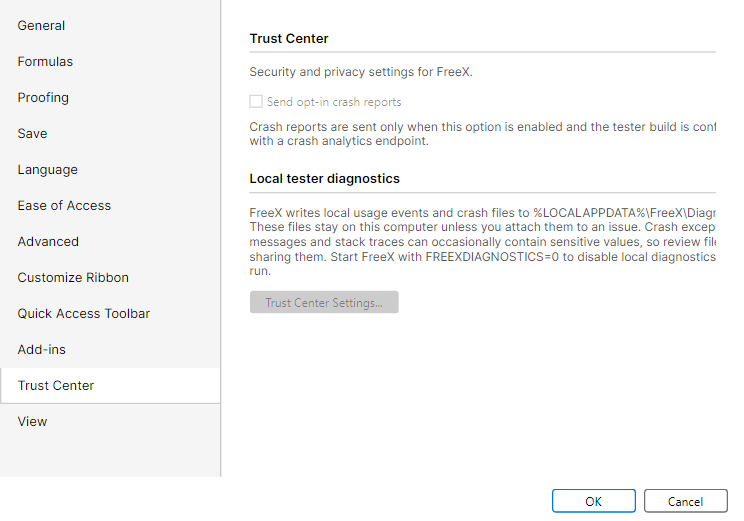
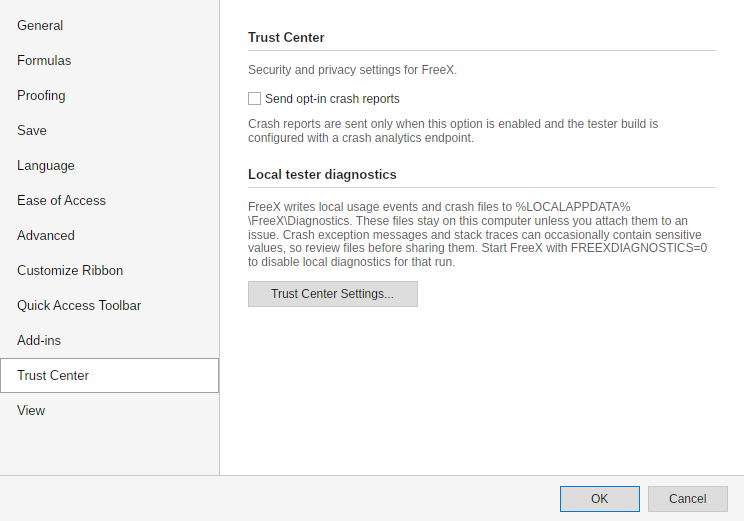
FreeX Options Trust Center Avalonia parity

diff --git a/src/FreeX.App.Avalonia/MainWindow.Options.cs b/src/FreeX.App.Avalonia/MainWindow.Options.cs
@@ -899,14 +899,33 @@ public sealed partial class MainWindow
             OptionsDescription(OptionsText("Options_ActiveApplicationAddIns")),
             OptionsButton(OptionsText("Options_Go"), width: 72, isEnabled: false));
 
+        var crashAnalyticsBox = new CheckBox
+        {
+            Content = OptionsText("Options_SendOptInCrashReports"),
+            IsChecked = current.CrashAnalyticsEnabled,
+        };
+        ApplyOptionsCheckBoxChrome(crashAnalyticsBox);
+        AutomationProperties.SetAutomationId(crashAnalyticsBox, "OptionsCrashAnalyticsCheckBox");
+        AutomationProperties.SetHelpText(
+            crashAnalyticsBox,
+            OptionsText("Options_CrashReportsIncludeAppVersionRuntimeOperatingSystemSessi"));
+
+        var trustCenterSettingsButton = OptionsButton(OptionsText("Options_TrustCenterSettings"), width: 170);
+        trustCenterSettingsButton.Click += async (_, _) =>
+            await AvaloniaUserMessageDialog.ShowWarningAsync(
+                dialog,
+                UiText.Get("DeferredCommand_TrustCenter_Body"),
+                UiText.Get("DeferredCommand_TrustCenter_Title"));
+
         var trustCenterPanel = OptionsCategoryPanel(
             OptionsSectionHeader(OptionsText("Options_TrustCenter2")),
             OptionsDescription(OptionsText("Options_SecurityAndPrivacySettingsForFreeX")),
-            OptionsCheckBox(OptionsText("Options_SendOptInCrashReports"), isEnabled: false),
+            crashAnalyticsBox,
             OptionsDescription(OptionsText("Options_CrashReportsAreSentOnlyWhenThisOptionIsEnabledAndTheTest")),
             OptionsSectionHeader(OptionsText("Options_LocalTesterDiagnostics")),
             OptionsDescription(OptionsText("Options_FreeXWritesLocalUsageEventsAndCrashFilesToLOCALAPPDATAFr")),
-            OptionsButton(OptionsText("Options_TrustCenterSettings"), width: 150, isEnabled: false));
+            trustCenterSettingsButton);
+        trustCenterPanel.Width = OptionsDialogPlanner.GeneralContentWidth;
 
         // ── Category list + content host ──────────────────────────────────────────
         var panels = new[]
@@ -1114,10 +1133,11 @@ public sealed partial class MainWindow
                          2 => AppOptionsObjectDisplay.Nothing,
                          _ => AppOptionsObjectDisplay.All,
                      },
-                     collapseRibbonAutomatically: collapseRibbonBox.IsChecked == true,
-                     appLanguage: languageOptions.Count > 0 && languageBox.SelectedIndex >= 0 && languageBox.SelectedIndex < languageOptions.Count
-                         ? AppLanguageCatalog.NormalizeCultureName(languageOptions[languageBox.SelectedIndex].CultureName)
-                         : current.AppLanguage))
+                    collapseRibbonAutomatically: collapseRibbonBox.IsChecked == true,
+                    appLanguage: languageOptions.Count > 0 && languageBox.SelectedIndex >= 0 && languageBox.SelectedIndex < languageOptions.Count
+                        ? AppLanguageCatalog.NormalizeCultureName(languageOptions[languageBox.SelectedIndex].CultureName)
+                        : current.AppLanguage,
+                    crashAnalyticsEnabled: crashAnalyticsBox.IsChecked == true))
             {
                 warningText.Text = inputError == OptionsDialogPlanner.OptionsInputError.InvalidFontSize
                     ? UiText.Get("Options_InvalidFontSizeMessage")

diff --git a/src/FreeX.App.Services/OptionsDialogPlanner.cs b/src/FreeX.App.Services/OptionsDialogPlanner.cs
@@ -114,7 +114,8 @@ public static class OptionsDialogPlanner
         AppOptionsEnterDirection AfterEnterDirection,
         AppOptionsObjectDisplay? ObjectsDisplay = null,
         bool? CollapseRibbonAutomatically = null,
-        string? AppLanguage = null);
+        string? AppLanguage = null,
+        bool? CrashAnalyticsEnabled = null);
 
     /// <summary>Font names offered in the Options dialog's default-font picker (parity with the WPF host).</summary>
     public static IReadOnlyList<string> FontNames { get; } =
@@ -177,7 +178,8 @@ public static class OptionsDialogPlanner
         out OptionsInputError error,
         AppOptionsObjectDisplay? objectsDisplay = null,
         bool? collapseRibbonAutomatically = null,
-        string? appLanguage = null)
+        string? appLanguage = null,
+        bool? crashAnalyticsEnabled = null)
     {
         input = null!;
 
@@ -213,14 +215,15 @@ public static class OptionsDialogPlanner
             afterEnterDirection,
             objectsDisplay,
             collapseRibbonAutomatically,
-            appLanguage);
+            appLanguage,
+            crashAnalyticsEnabled);
         return true;
     }
 
     /// <summary>
     /// Projects validated dialog input onto a fresh <see cref="AppOptions"/>, carrying over every field the
-    /// dialog does not surface (status-bar layout, language, custom dictionary, quick-access toolbar, crash
-    /// analytics, PDF export language, …) from <paramref name="existing"/> so saving the dialog never clears
+    /// dialog does not surface (status-bar layout, language, custom dictionary, quick-access toolbar, PDF
+    /// export language, …) from <paramref name="existing"/> so saving the dialog never clears
     /// settings the user could not see. The result is normalized and ready to persist via
     /// <see cref="AppOptionsStore.SaveToPath"/>.
     /// </summary>
@@ -270,8 +273,8 @@ public static class OptionsDialogPlanner
             StatusBarShowZoomSlider = existing.StatusBarShowZoomSlider,
             QuickAccessToolbarBelowRibbon = existing.QuickAccessToolbarBelowRibbon,
             QuickAccessToolbarCommands = existing.QuickAccessToolbarCommands,
-            CrashAnalyticsEnabled = existing.CrashAnalyticsEnabled,
-            CrashAnalyticsPrompted = existing.CrashAnalyticsPrompted,
+            CrashAnalyticsEnabled = input.CrashAnalyticsEnabled ?? existing.CrashAnalyticsEnabled,
+            CrashAnalyticsPrompted = existing.CrashAnalyticsPrompted || input.CrashAnalyticsEnabled == true,
             PdfExportLanguage = existing.PdfExportLanguage,
         };
 

diff --git a/tests/FreeX.App.Services.Tests/OptionsDialogPlannerTests.cs b/tests/FreeX.App.Services.Tests/OptionsDialogPlannerTests.cs
@@ -265,6 +265,44 @@ public sealed class OptionsDialogPlannerTests
         existing.SpellCheckCustomDictionaryWords.Should().Equal("Foo", "Bar");
     }
 
+    [Fact]
+    public void Project_UpdatesTrustCenterConsentWithoutClearingPromptHistory()
+    {
+        var existing = new AppOptions
+        {
+            CrashAnalyticsEnabled = false,
+            CrashAnalyticsPrompted = false,
+        };
+
+        OptionsDialogPlanner.TryBuildInput(
+            "Calibri", "12", "2", "Grace",
+            autoCalculate: true, useR1C1ReferenceStyle: false, errorCheckingEnabled: true,
+            proofingIgnoreUppercase: true, proofingIgnoreNumbers: false,
+            showFormulaBar: true, showGridlines: true, showHeadings: true,
+            defaultFormat: ".xlsx", showScreenTips: true,
+            moveSelectionAfterEnter: true, afterEnterDirection: AppOptionsEnterDirection.Down,
+            out var enabledInput, out _, crashAnalyticsEnabled: true).Should().BeTrue();
+
+        var enabled = OptionsDialogPlanner.Project(existing, enabledInput);
+
+        enabled.CrashAnalyticsEnabled.Should().BeTrue();
+        enabled.CrashAnalyticsPrompted.Should().BeTrue();
+
+        OptionsDialogPlanner.TryBuildInput(
+            "Calibri", "12", "2", "Grace",
+            autoCalculate: true, useR1C1ReferenceStyle: false, errorCheckingEnabled: true,
+            proofingIgnoreUppercase: true, proofingIgnoreNumbers: false,
+            showFormulaBar: true, showGridlines: true, showHeadings: true,
+            defaultFormat: ".xlsx", showScreenTips: true,
+            moveSelectionAfterEnter: true, afterEnterDirection: AppOptionsEnterDirection.Down,
+            out var disabledInput, out _, crashAnalyticsEnabled: false).Should().BeTrue();
+
+        var disabled = OptionsDialogPlanner.Project(enabled, disabledInput);
+
+        disabled.CrashAnalyticsEnabled.Should().BeFalse();
+        disabled.CrashAnalyticsPrompted.Should().BeTrue();
+    }
+
     [Theory]
     [InlineData(".xlsx", 0)]
     [InlineData(".fxl", 1)]

diff --git a/src/FreeX.App.Host/ParityCapture.cs b/src/FreeX.App.Host/ParityCapture.cs
@@ -594,7 +594,8 @@ internal static class ParityCapture
                     new ScenarioManagerDialog(workbook, sheet.Id, ResolveSheetId(workbook)));
             }
             else if (string.Equals(targetSurfaceId, "dialog.Options.Save", StringComparison.Ordinal) ||
-                string.Equals(targetSurfaceId, "dialog.Options.Language", StringComparison.Ordinal))
+                string.Equals(targetSurfaceId, "dialog.Options.Language", StringComparison.Ordinal) ||
+                string.Equals(targetSurfaceId, "dialog.Options.TrustCenter", StringComparison.Ordinal))
             {
                 CaptureDialogTabs(results, "dialog.Options", outDir,
                     () => new OptionsDialog(FreeXOptions.Load()),
@@ -608,7 +609,7 @@ internal static class ParityCapture
             }
             else
             {
-                AddMissing(results, targetSurfaceId, "dialog", "Targeted WPF parity capture only supports dialog.FormatCells, dialog.AccessibilityChecker, dialog.GoalSeek, dialog.GoToSpecial, dialog.Sparkline, dialog.ExportOptions, dialog.ProtectWorkbook, dialog.PivotTableOptions, dialog.PageSetup, dialog.HeaderFooterDialog, dialog.Consolidate, dialog.ErrorChecking, dialog.ScenarioManager, and dialog.Options.Save in this lane.");
+                AddMissing(results, targetSurfaceId, "dialog", "Targeted WPF parity capture only supports dialog.FormatCells, dialog.AccessibilityChecker, dialog.GoalSeek, dialog.GoToSpecial, dialog.Sparkline, dialog.ExportOptions, dialog.ProtectWorkbook, dialog.PivotTableOptions, dialog.PageSetup, dialog.HeaderFooterDialog, dialog.Consolidate, dialog.ErrorChecking, dialog.ScenarioManager, and the targeted Options tabs.");
             }
 
             return;

diff --git a/tests/FreeX.App.Avalonia.Tests/OptionsDialogAdvancedParitySourceTests.cs b/tests/FreeX.App.Avalonia.Tests/OptionsDialogAdvancedParitySourceTests.cs
@@ -64,6 +64,25 @@ public sealed class OptionsDialogAdvancedParitySourceTests
         wpf.Should().Contain("Padding=\"16,10\"");
     }
 
+    [Fact]
+    public void TrustCenter_UsesWpfControlStatesGeometryAndDeferredSettingsRoute()
+    {
+        var source = File.ReadAllText(RepoFile("src", "FreeX.App.Avalonia", "MainWindow.Options.cs"));
+
+        source.Should().Contain("IsChecked = current.CrashAnalyticsEnabled");
+        source.Should().Contain("OptionsCrashAnalyticsCheckBox");
+        source.Should().Contain("trustCenterPanel.Width = OptionsDialogPlanner.GeneralContentWidth;");
+        source.Should().Contain("OptionsButton(OptionsText(\"Options_TrustCenterSettings\"), width: 170)");
+        source.Should().Contain("AvaloniaUserMessageDialog.ShowWarningAsync");
+        source.Should().Contain("UiText.Get(\"DeferredCommand_TrustCenter_Body\")");
+        source.Should().Contain("crashAnalyticsEnabled: crashAnalyticsBox.IsChecked == true");
+        source.Should().Contain("Key.Enter or Key.Space");
+        source.Should().Contain("IsDefault = true");
+        source.Should().Contain("IsCancel = true");
+        source.Should().Contain("cancelButton.Click += (_, _) => dialog.Close();");
+        source.Should().Contain("await dialog.ShowDialog(this);");
+    }
+
     private static string RepoFile(params string[] parts)
     {
         var directory = new DirectoryInfo(AppContext.BaseDirectory);

diff --git a/tests/FreeX.App.Host.Tests/OptionsDialogSourceTests.cs b/tests/FreeX.App.Host.Tests/OptionsDialogSourceTests.cs
@@ -70,6 +70,15 @@ public sealed partial class OptionsDialogSourceTests
     }
 
     [Fact]
+    public void ParityCapture_TargetsOptionsTrustCenterForFocusedEvidence()
+    {
+        var source = DialogSourceTestSupport.ReadHostSources("ParityCapture.cs");
+
+        source.Should().Contain("string.Equals(targetSurfaceId, \"dialog.Options.TrustCenter\", StringComparison.Ordinal)");
+        source.Should().Contain("captureOnlySurfaceId: targetSurfaceId");
+    }
+
+    [Fact]
     public void ParityCapture_OptionsAdvancedRendersActionFooterInsideCanonicalClientFrame()
     {
         StaTestRunner.Run(() =>

diff --git a/docs/parity/freex-options-trust-center-wave33-20260727.md b/docs/parity/freex-options-trust-center-wave33-20260727.md
@@ -1,0 +1,80 @@
+# FreeX Options Trust Center parity, Wave33
+
+Date: 2026-07-27
+
+Surface: `dialog.Options.TrustCenter`
+
+## Scope and diagnosis
+
+WPF remains the authority in `src/FreeX.App.Host/OptionsDialog.xaml`. The
+Avalonia counterpart is built in `src/FreeX.App.Avalonia/MainWindow.Options.cs`.
+
+The matched baseline showed two semantic gaps and one structural gap:
+
+- Avalonia rendered the crash-report consent checkbox and Trust Center Settings
+  button disabled; WPF renders both controls enabled.
+- Avalonia used a 150 px Settings button while WPF uses 170 px.
+- The dynamically-built Avalonia panel had no finite content width, so the long
+  diagnostics paragraph was clipped instead of wrapping in the WPF content frame.
+
+The fix keeps WPF UI code unchanged. The only WPF-side change is a focused
+`ParityCapture` selector for this already-existing Options tab, added solely to
+produce fresh authority evidence. The shared planner change is a genuine
+cross-shell persistence contract: it carries the same crash-consent value and
+preserves prompt history when the user opts out again.
+
+## Implemented behavior
+
+- Trust Center consent is seeded from and persisted to `CrashAnalyticsEnabled`.
+- Enabling consent marks the prompt as seen; disabling it does not clear prompt
+  history, matching the WPF assignment.
+- Trust Center Settings opens the existing Avalonia modal message surface using
+  the same localized deferred-command resource keys as WPF.
+- The panel is constrained to the shared 468 px Options content width, and the
+  button is 170 px wide.
+- Existing category keyboard navigation, default OK, cancel, awaited dialog
+  lifecycle, and the Options hang guard remain intact.
+
+## Evidence
+
+Fresh matched captures, both `744x521` px at the canonical client frame:
+
+- WPF authority: `docs/parity/dialog-visual-assets/wpf-capture/dialog.Options.TrustCenter.png`
+- Avalonia: `docs/parity/dialog-visual-assets/avalonia-capture/dialog.Options.TrustCenter.png`
+- Fresh WPF run: `artifacts/options-trust-center-wave33/wpf/manifest.json`
+- Fresh Avalonia run: `artifacts/options-trust-center-wave33/avalonia/manifest.json`
+
+The same comparer and threshold were used for both pairs:
+
+| Metric | Before | After |
+| --- | ---: | ---: |
+| Changed-pixel diff | 3.8873837146% | 3.6451661220% |
+| Reduction | -- | 6.23% |
+| Logical frame | 744x521 | 744x521 |
+
+Reports:
+
+- Baseline comparison: `artifacts/options-trust-center-wave33/before-compare/parity-report.json`
+- Fresh comparison: `artifacts/options-trust-center-wave33/compare/parity-report.json`
+
+This is a measurable improvement, not a 100% pixel-parity claim. Remaining
+variance is primarily Avalonia/Linux versus WPF text rasterization and native
+control chrome; the long diagnostics copy also wraps at slightly different
+word boundaries.
+
+## Verification
+
+- `OptionsDialogPlannerTests`: 36 passed, 0 failed.
+- Focused Avalonia Options parity source lane: 4 passed, 0 failed.
+- WPF Release build: 0 warnings, 0 errors.
+- Avalonia self-contained `linux-x64` publish: succeeded.
+- Fresh WPF targeted capture `dialog.Options.TrustCenter`: succeeded.
+- Fresh Avalonia production capture under the prebuilt Ubuntu 24.04/Xvfb
+  harness: succeeded; manifest captured the target surface.
+- Parity comparer: target present on both sides, 3.6451661220% diff, no hard
+  regression at the evidence threshold.
+
+The initial fresh Ubuntu attempt was blocked in `apt-get update` before app
+startup; only the task-owned container was stopped. The same capture then
+completed successfully with the repository's prebuilt
+`freex-linux-interactive:ubuntu24.04` image.
